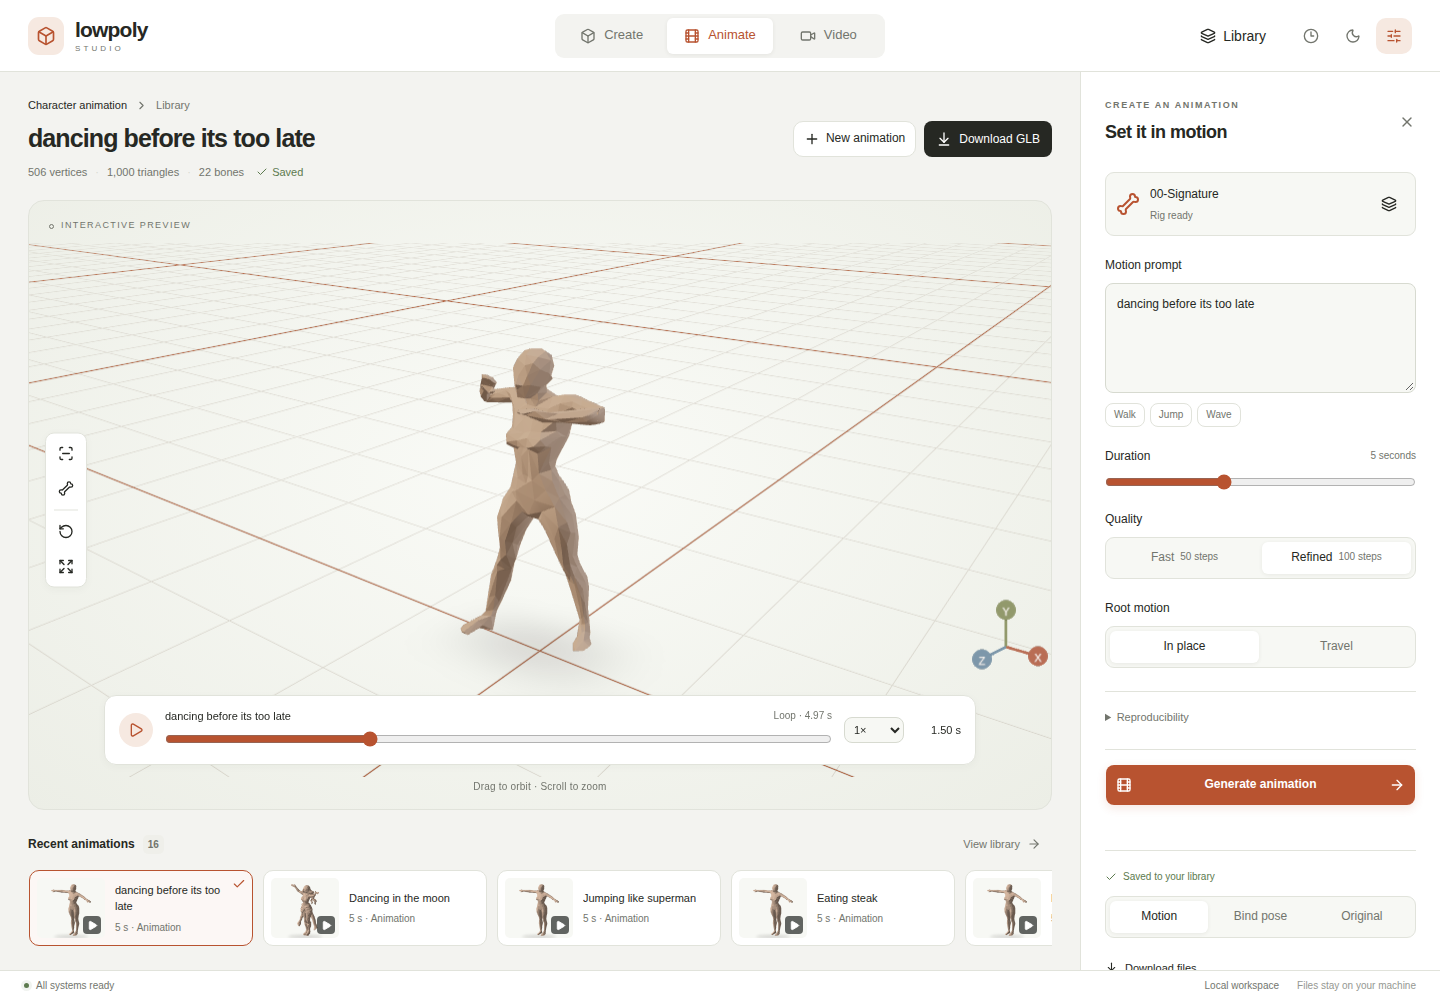
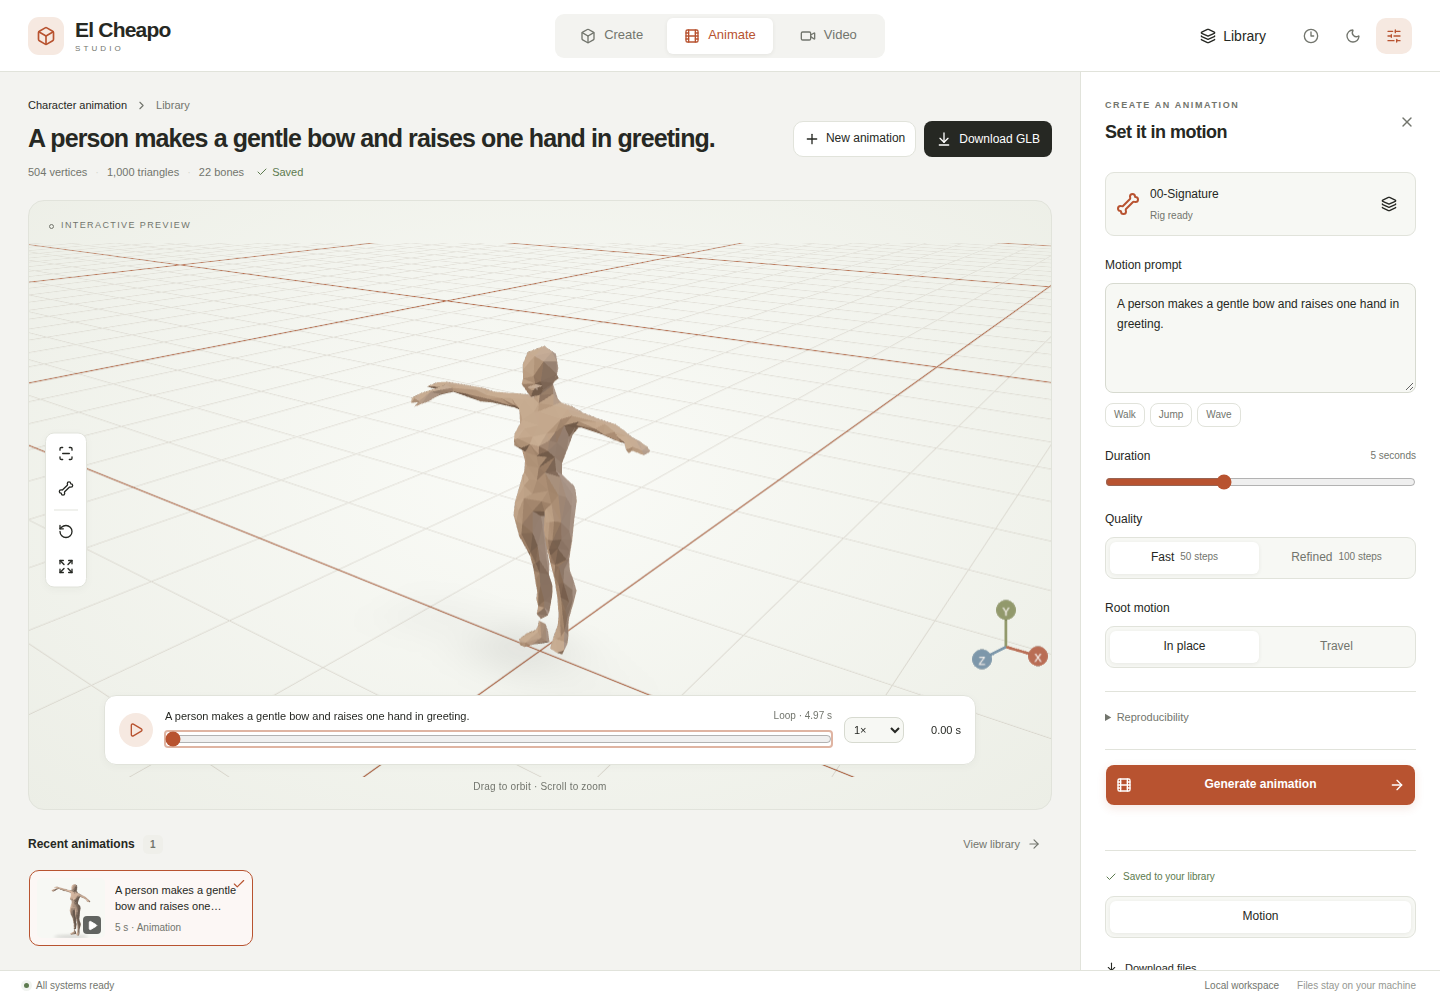
Rename project branding to El Cheapo Studio

diff --git a/web/src/components/studio.tsx b/web/src/components/studio.tsx
@@ -421,12 +421,12 @@ export default function Studio() {
       }}
     >
       <header className="app-header surface">
-        <a className="brand" href="/" aria-label="Low Poly Studio">
+        <a className="brand" href="/" aria-label="El Cheapo Studio">
           <span className="brand-mark">
             <Box size={20} />
           </span>
           <span>
-            lowpoly<span className="brand-sub">STUDIO</span>
+            El Cheapo<span className="brand-sub">STUDIO</span>
           </span>
         </a>
         <nav className="segment mode-switch" aria-label="Workspace mode">

diff --git a/web/src/app/layout.tsx b/web/src/app/layout.tsx
@@ -3,7 +3,7 @@ import "./globals.css";
 import { ThemeProvider } from "next-themes";
 
 export const metadata: Metadata = {
-  title: "Low Poly Studio",
+  title: "El Cheapo Studio",
   description:
     "Create 3D assets, animate characters, and generate videos in your local creative studio.",
 };

diff --git a/server/studio/api.py b/server/studio/api.py
@@ -62,7 +62,7 @@ async def lifespan(app):
 
 
 app = FastAPI(
-    title="Low Poly Studio",
+    title="El Cheapo Studio",
     version="0.1.0",
     lifespan=lifespan,
     docs_url="/api/docs",

diff --git a/README.md b/README.md
@@ -1,8 +1,8 @@
-# Low Poly Studio
+# El Cheapo Studio
 
 Turn images into low-poly models, animate characters, and generate short videos locally.
 
-![Low Poly Studio animation workspace](docs/images/studio.png)
+![El Cheapo Studio animation workspace](docs/images/studio.png)
 
 | Input image | Generated mesh | Walking animation | Generated video |
 | :---: | :---: | :---: | :---: |

diff --git a/docs/guide.md b/docs/guide.md
@@ -1,4 +1,4 @@
-# Low Poly Studio guide
+# El Cheapo Studio guide
 
 A local workspace for generating 3D assets, character animation, and video. Built with Next.js, FastAPI, Temporal, and Postgres. No accounts, API keys, or Hugging Face login required.
 
